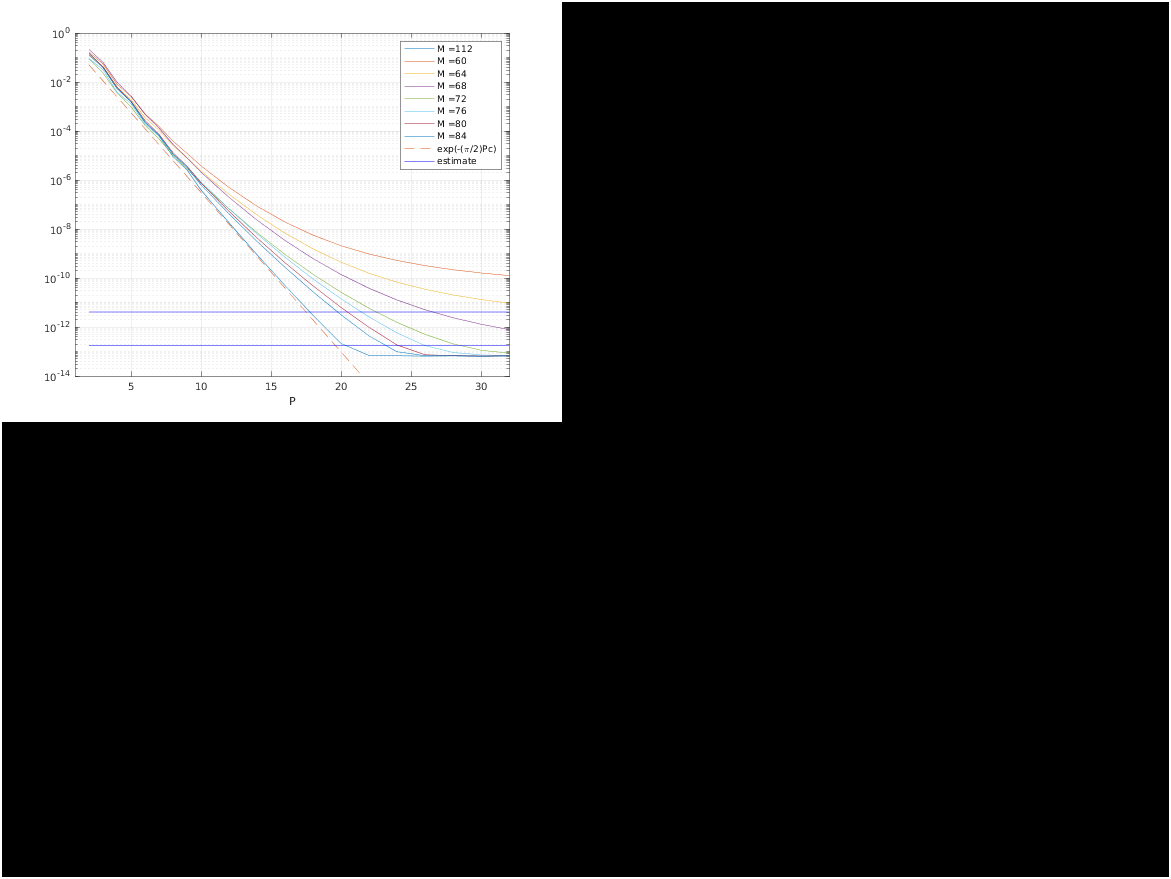
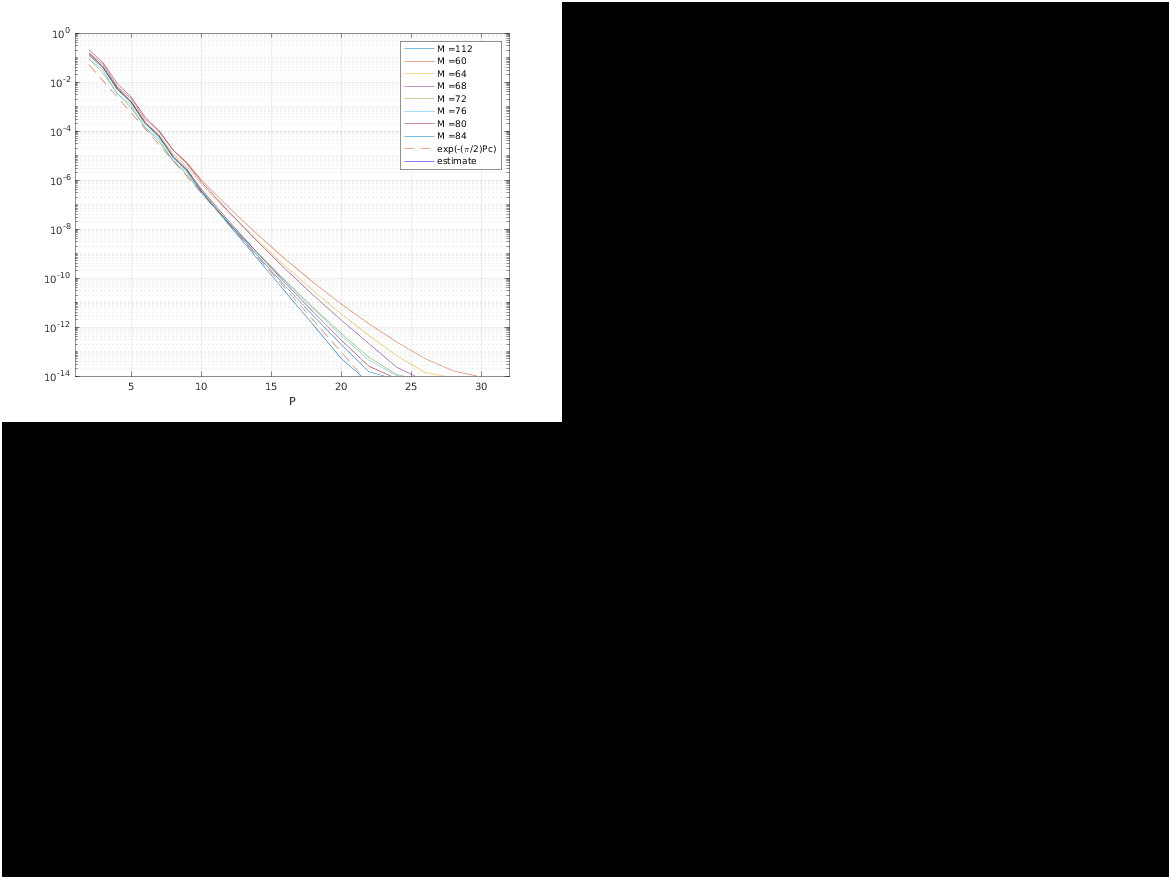
new estimate

Changed region(s): [[0.1537, 0.1843, 0.4304, 0.43], [0.0922, 0.0922, 0.1537, 0.1843], [0.0615, 0.0614, 0.0922, 0.0922]]

diff --git a/SE_Stokes_run/SE3P_Stokes/P_error.m b/SE_Stokes_run/SE3P_Stokes/P_error.m
@@ -8,7 +8,7 @@ N = 10; % number of source particles
 
 
 %% Parameter selection
-L = 10; % box side length
+L = 1; % box side length
 box = [L L L]; % periodic box
 opt.box = box;
 
@@ -17,7 +17,7 @@ opt.box = box;
 
 M0 = 128; % Set M0=M/L, the restu * 1+ is automatic
 opt.M = M0*opt.box;
-opt.xi = 2;
+opt.xi = 15;
 opt.betaP = 2.5;
 opt.c = sqrt(0.91);
 %opt.window = 'kaiser_exact';
@@ -36,8 +36,7 @@ if(exist('refval.mat'))
 	refval = load('refval.mat');
 	ref = refval.refv(:,1:3);
 else
-	
-	opt.P = 20;
+	opt.P = 25;
 	opt.M = 196*[1,1,1];
 	ref = SE3P_Stokes(1:N,x,f,opt);
 %	ref = SE3P_Stokes_direct_fd_mex(1:N,x,f,ED_opt);
@@ -48,7 +47,8 @@ rms_ref = rmse(ref);
 %% Compare solutions with changing P
 MM = 60:4:84;
 str = {};
-est = @(M,xi,L,f) sqrt(f)*(xi^3*L^2/(pi^4*(M/2)^(3/2)))*exp(-(pi*(M/2)/(xi*L))^2);
+%est = @(M,xi,L,f) sqrt(f)*(xi^3*L^2/(pi^4*(M/2)^(3/2)))*exp(-(pi*(M/2)/(xi*L))^2);
+est = @(M,xi,L,f) sqrt(f)*(4/(3^(1/4)*L*pi))*exp(-(pi*M/(xi*L*2))^2);
 e_vec = [];
 F = sum(norm(f.^2));
 A = @(a,b,c) sqrt(a)*b*(b*c);
